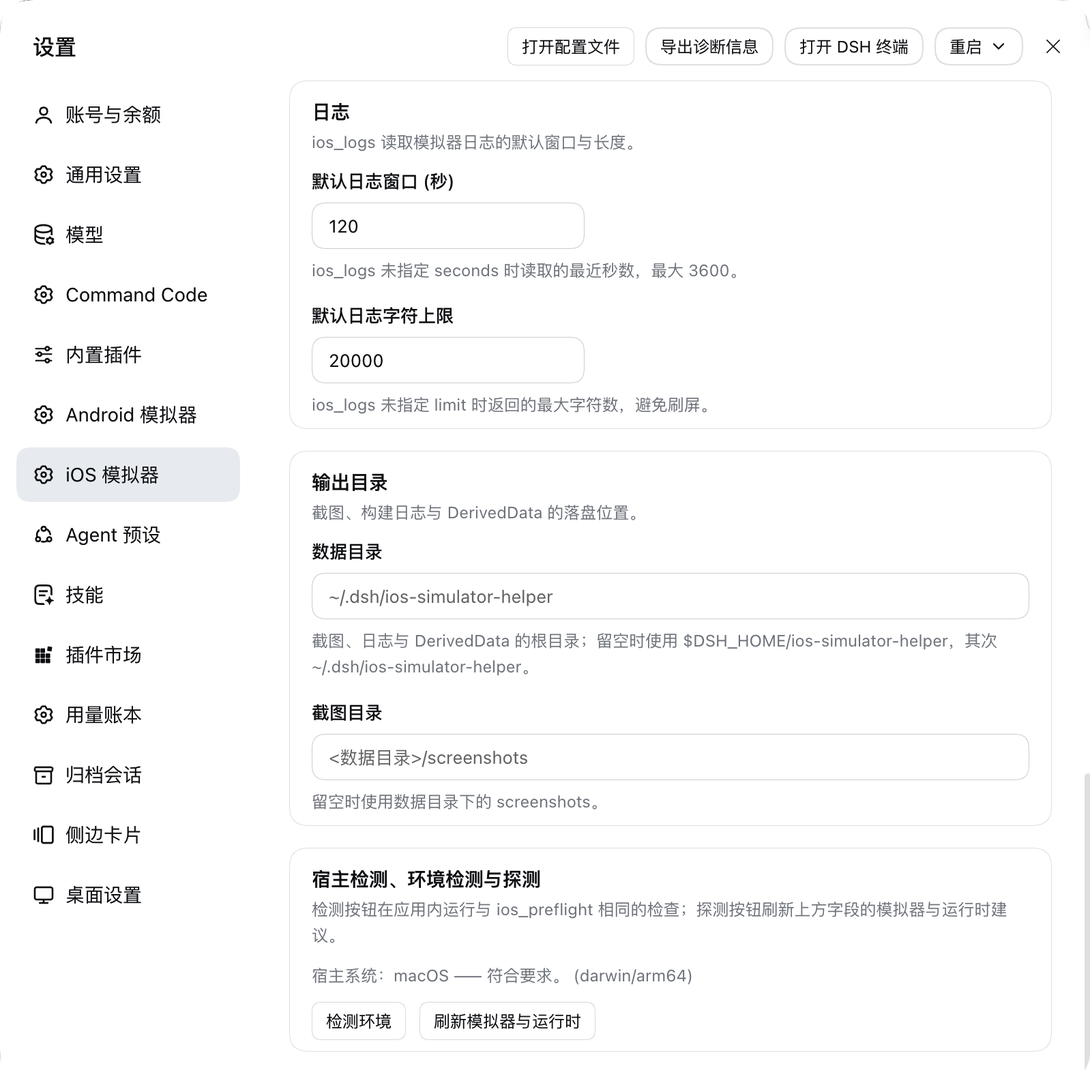
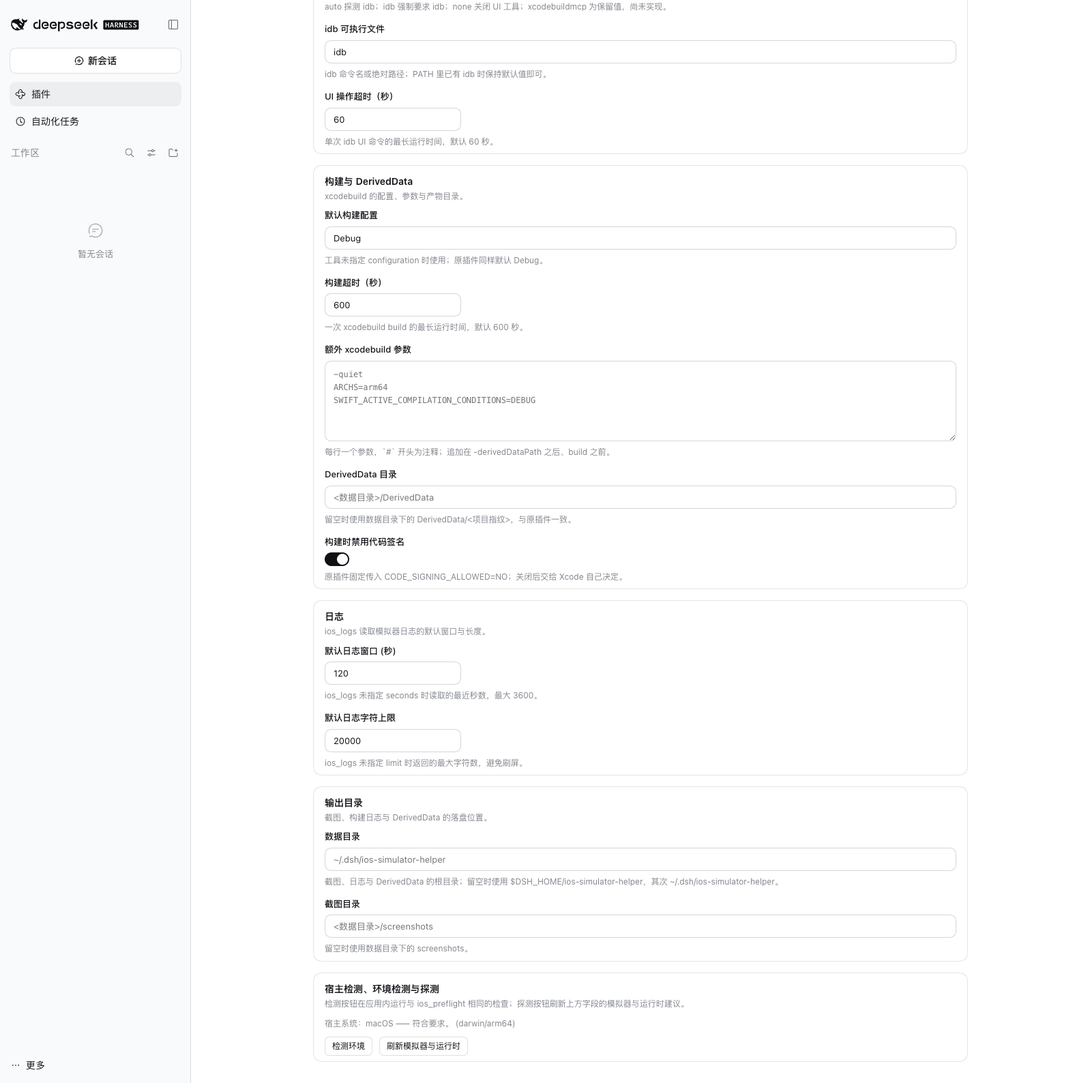
docs: move the configuration-page documents to the Plugins panel
Every instruction, screenshot and claim that still described the page as
Settings → iOS Simulator now names the plugin's detail view in the Plugins
panel: both READMEs and AGENTS.md, plus the four gallery images. The images
are re-captured from the real page in DSH harness 0.2.1-rc.2 (Chinese locale,
1598 × 1588, clean form so there is no staged save bar or override badge);
the last shot stops at the form's bottom instead of exposing the component
row's local code source, which has no place in a marketplace gallery.

AGENTS.md also records the new slot rule, the single source of the display
name in locale/*.json, the new gallery subject and the 108-test count.

Verified: `pnpm run check`.

diff --git a/README.md b/README.md
@@ -7,11 +7,11 @@
 ![platform: macOS](https://img.shields.io/badge/platform-macOS-lightgrey.svg)
 [![target: DSH](https://img.shields.io/badge/DSH-%3E%3D0.2.0--rc.2-blue.svg)](https://github.com/awesome-dsh-plugin/awesome-dsh-plugin)
 
-A DeepSeek Harness (DSH) native port of the official ZCode `ios-simulator@0.1.0` plugin: all 20 original MCP tools preserved as native DSH tools, plus a full **settings page** (Settings → iOS Simulator) that edits the simulator parameters in-app instead of through environment variables.
+A DeepSeek Harness (DSH) native port of the official ZCode `ios-simulator@0.1.0` plugin: all 20 original MCP tools preserved as native DSH tools, plus a **parameter page on the plugin's own detail page** in the Plugins panel (Plugins → Installed plugins → iOS Simulator Helper) that edits the simulator parameters in-app instead of through environment variables.
 
 - Tool and argument names are identical to the original, so workflows written for the `ios_simulator` MCP server keep working; one tool is added — `ios_shutdown_simulator`, because the original could boot a simulator but never stop one.
 - 17 settings fields in 5 groups, all live-editable; an empty field falls back to the original plugin's `IOS_SIM_*` variable, then to the built-in default.
-- The settings page detects the host system and, **on a non-macOS host, states that this plugin only supports macOS**; every tool that drives Apple tooling then refuses with a clear message instead of failing with `spawn xcrun ENOENT`, while `ios_preflight` reports the failing host check and `ios_discover_project`, `ios_create_app` and `ios_ui_status` still answer.
+- The parameter page detects the host system and, **on a non-macOS host, states that this plugin only supports macOS**; every tool that drives Apple tooling then refuses with a clear message instead of failing with `spawn xcrun ENOENT`, while `ios_preflight` reports the failing host check and `ios_discover_project`, `ios_create_app` and `ios_ui_status` still answer.
 - Published as `@zhz8888/dsh-ios-simulator-helper`; the plugin page shows **iOS Simulator Helper** / **iOS 模拟器助手** from `locale/` rather than the raw package name, and both descriptions say the plugin is unofficial and not affiliated with Apple.
 
 ## Quick start
@@ -26,16 +26,16 @@ On a Mac with full Xcode, at least one iOS runtime and DSH installed:
 
    In DSH Desktop, open **Plugins** and add the same package name there. Reload or restart DSH afterwards.
 
-2. **Check the machine** — open **Settings → iOS Simulator** and press **Run diagnostic**. It runs exactly the checks `ios_preflight` runs (full Xcode, a simulator runtime, `idb`), and prints a fix for anything missing.
+2. **Check the machine** — open **Plugins → Installed plugins → iOS Simulator Helper** and press **Run diagnostic**. It runs exactly the checks `ios_preflight` runs (full Xcode, a simulator runtime, `idb`), and prints a fix for anything missing.
 
-3. **Use it** — ask for what you want ("build and run this project on the iPhone 16 simulator", "screenshot the running app"), or call the 21 `ios_*` tools directly. Everything the tools need is editable on that settings page.
+3. **Use it** — ask for what you want ("build and run this project on the iPhone 16 simulator", "screenshot the running app"), or call the 21 `ios_*` tools directly. Everything the tools need is editable on that page.
 
 ## Contents
 
 - [Quick start](#quick-start)
 - [Requirements](#requirements)
 - [Install](#install)
-- [Settings page](#settings-page)
+- [Configuration page](#configuration-page)
 - [Screenshots](#screenshots)
 - [Tools](#tools)
 - [Skill and slash command](#skill-and-slash-command)
@@ -55,7 +55,7 @@ On a Mac with full Xcode, at least one iOS runtime and DSH installed:
 | Node.js ≥ 22 | The DSH host runtime. |
 | `idb` (optional) | Needed only by the `ios_ui_*` tools. Without it, build/run/screenshot/logs are unaffected. |
 
-`ios_preflight` checks every item above and prints a fix for each failure; the settings page's "Run diagnostic" button runs the same checks.
+`ios_preflight` checks every item above and prints a fix for each failure; the parameter page's "Run diagnostic" button runs the same checks.
 
 ## Install
 
@@ -63,7 +63,7 @@ On a Mac with full Xcode, at least one iOS runtime and DSH installed:
 dsh plugin --profile <profile> add @zhz8888/dsh-ios-simulator-helper
 ```
 
-**DSH Desktop**: the `desktop` profile belongs to the Electron app — open **Plugins**, add `@zhz8888/dsh-ios-simulator-helper` there, and enable the row it creates. After a reload or restart the page is at **Settings → iOS Simulator**; it only appears while the host half actually serves this plugin's settings namespace.
+**DSH Desktop**: the `desktop` profile belongs to the Electron app — open **Plugins**, add `@zhz8888/dsh-ios-simulator-helper` there, and enable the row it creates. After a reload or restart the form is at **Plugins → Installed plugins → iOS Simulator Helper**; it only appears while the host half actually serves this plugin's settings namespace.
 
 The published tarball contains everything the plugin needs — the host half, the browser bundle, the bundled skill and the `locale/` entries — and nothing is compiled at install time, so no build approval step is involved. `@deepseek-ai/cordis`, `@deepseek-ai/dsh-tools` and `@deepseek-ai/schemastery` are **peer dependencies** provided by the harness, so the plugin pulls in no second copy and has **no runtime dependencies** of its own; DSH's compatibility gate compares the `@deepseek-ai/dsh*` peer ranges against the running version and refuses to install on a mismatch.
 
@@ -91,11 +91,11 @@ dsh plugin --profile <profile> add @zhz8888/dsh-ios-simulator-helper \
 
 Stable releases (`0.2.0`, `0.2.1`, `0.3.0`, `1.0.0`, …) are unaffected and always admitted.
 
-## Settings page
+## Configuration page
 
-The settings namespace equals the profile patch row id equals `ios-simulator-helper` (also `dsh.name`). The page reads and writes through `ctx.configForms`, so staged edits, dirty detection, inline validation, optimistic concurrency (revisions) and "overridden / reset to default" all come from the harness. It is one card per category, built from the same field kit as the built-in settings pages (`@deepseek-ai/dsh-client-ui-primitives`); the three timeouts are entered in whole seconds, while the legacy `IOS_SIM_*_MS` variables are still read in milliseconds and converted.
+The settings namespace equals the profile patch row id equals `ios-simulator-helper` (also `dsh.name`). The form registers with the Plugins page's `plugins.bundle.config` slot, keyed by the package name, so it renders inside the plugin's detail page in the Plugins panel instead of in the Settings dialog; it exists only while the host half serves that namespace. It reads and writes through `ctx.configForms`, so staged edits, dirty detection, inline validation, optimistic concurrency (revisions) and "overridden / reset to default" all come from the harness. The detail page draws the plugin's title, icon and description; the form contributes one line saying when an edit takes effect, one card per category — built from the same field kit as the built-in settings pages (`@deepseek-ai/dsh-client-ui-primitives`) — and the save bar. The three timeouts are entered in whole seconds, while the legacy `IOS_SIM_*_MS` variables are still read in milliseconds and converted.
 
-Saving happens in a pill that sticks to the bottom of the page: it appears while edits are staged (or a write is in flight, or one failed), names that state next to a status dot, and carries **Discard changes** and **Save** (disabled while a draft is invalid). A draft that merely puts a control back to the value already in effect counts as no edit at all, a confirmation toast reports a write that landed, and leaving the page discards staged edits.
+Saving happens in a pill that sticks to the bottom of the form: it appears while edits are staged (or a write is in flight, or one failed), names that state next to a status dot, and carries **Discard changes** and **Save** (disabled while a draft is invalid). A draft that merely puts a control back to the value already in effect counts as no edit at all, a confirmation toast reports a write that landed, and leaving the page discards staged edits.
 
 | Group | Field | Type | Default | Legacy env fallback | Notes |
 |---|---|---|---|---|---|
@@ -117,7 +117,7 @@ Saving happens in a pill that sticks to the bottom of the page: it appears while
 | Output directories | `dataDir` | text | empty | `IOS_SIM_PLUGIN_DATA` | Root for screenshots, build logs and DerivedData; empty uses `$DSH_HOME/ios-simulator-helper`, then `~/.dsh/ios-simulator-helper`. |
 | | `screenshotDir` | text | empty | `IOS_SIM_SCREENSHOT_DIR` | Empty uses `<data dir>/screenshots`. |
 
-Below the form sit the host check and three buttons:
+Below the form sit the host check and two buttons:
 
 - **Host system** — decided twice: synchronously from the browser's own platform string (so a non-macOS browser sees the notice on first paint, before any request), then authoritatively from the host half's `GET /api/ios-simulator-helper/host`; the host wins on a conflict. When the host is unsupported — or the host never answered and the browser itself is non-macOS — a red notice titled **"This plugin only supports macOS"** appears above the form and names the detected platform.
 - **Run diagnostic** → `GET /api/ios-simulator-helper/status`, the same checks `ios_preflight` runs, listed one by one with status, detail and fix.
@@ -129,23 +129,23 @@ The original plugin's `userConfig` (`default_device`, `ui_backend`) and its envi
 
 ## Screenshots
 
-All four are the live page in DSH Desktop, in the order you scroll it — nothing is mocked up. They show the 1.1.0 card layout and the timeouts in whole seconds; the save bar only appears while an edit is staged, so it is not in these shots. The window ran the Chinese locale, so the section headings are Chinese while every field name is the same in both languages.
+All four are the live page in DSH harness 0.2.1-rc.2, in the order you scroll it — nothing is mocked up. They show the form inside the plugin's own detail view in the Plugins panel, the 1.1.0 card layout and the timeouts in whole seconds; the save bar only appears while an edit is staged, so it is not in these shots. The window ran the Chinese locale, so the card headings are Chinese while every field name is the same in both languages.
 
-**1. Simulator and device** — the fields every `ios_*` call reads:
+**1. Simulator and device** — the plugin heading and description, then the fields every `ios_*` call reads:
 
-![The iOS Simulator settings page in DSH Desktop: the simulator-and-device card with the default device, default runtime, auto boot, auto open and the boot timeout](https://raw.githubusercontent.com/zhz8888/dsh-ios-simulator-helper/main/assets/settings-page-1-simulator-and-device.png)
+![The iOS Simulator Helper page in the Plugins panel: the plugin title, version and description, then the simulator-and-device card with the default device, default runtime, auto boot, auto open and the boot timeout](https://raw.githubusercontent.com/zhz8888/dsh-ios-simulator-helper/main/assets/settings-page-1-simulator-and-device.png)
 
 **2. UI automation and builds** — the `idb` backend and its timeout, then the `xcodebuild` configuration, build timeout and extra arguments:
 
-![The page scrolled to UI automation and build settings: UI backend, idb binary, UI timeout, default configuration, build timeout and the extra xcodebuild arguments](https://raw.githubusercontent.com/zhz8888/dsh-ios-simulator-helper/main/assets/settings-page-2-ui-automation-and-build.png)
+![The form scrolled to UI automation and build settings: UI backend, idb binary, UI timeout, default configuration, build timeout and the extra xcodebuild arguments](https://raw.githubusercontent.com/zhz8888/dsh-ios-simulator-helper/main/assets/settings-page-2-ui-automation-and-build.png)
 
 **3. Build tail and logs** — the DerivedData directory and the code-signing switch, then the `ios_logs` window and character limit, and the start of the output directories:
 
-![The page scrolled further: the DerivedData directory and code signing during builds, then the default log window and character limit, and the data and screenshot directories](https://raw.githubusercontent.com/zhz8888/dsh-ios-simulator-helper/main/assets/settings-page-3-logs-and-output.png)
+![The form scrolled further: the DerivedData directory and code signing during builds, then the default log window and character limit, and the start of the data and screenshot directories](https://raw.githubusercontent.com/zhz8888/dsh-ios-simulator-helper/main/assets/settings-page-3-logs-and-output.png)
 
 **4. Output directories and the host check** — where screenshots, logs and DerivedData land, then the macOS verdict with the two detection buttons:
 
-![The bottom of the page: the data and screenshot directories, then the host check reading "macOS — supported (darwin/arm64)" with the run-diagnostic and refresh buttons](https://raw.githubusercontent.com/zhz8888/dsh-ios-simulator-helper/main/assets/settings-page-4-host-check.png)
+![The bottom of the form: the data and screenshot directories, then the host check reading "macOS — supported (darwin/arm64)" with the run-diagnostic and refresh buttons](https://raw.githubusercontent.com/zhz8888/dsh-ios-simulator-helper/main/assets/settings-page-4-host-check.png)
 
 `screenshots.json` lists these four files in this order next to `package.json` in the repository, which is how a plugin market finds them.
 
@@ -180,7 +180,7 @@ Two behaviours deserve their own note:
 
 ## Skill and slash command
 
-- **`ios-dev` skill** — shipped in `skills/ios-dev/` and registered by the host half through `ctx.skills.register()` as an embedded skill with the skill directory as its `resourceBase`. Rewritten for DSH: no `mcp__…` prefix, environment configuration points at the settings page, and the macOS precondition plus the "shut the simulator down when you are done" step are spelled out.
+- **`ios-dev` skill** — shipped in `skills/ios-dev/` and registered by the host half through `ctx.skills.register()` as an embedded skill with the skill directory as its `resourceBase`. Rewritten for DSH: no `mcp__…` prefix, environment configuration points at the plugin's configuration page, and the macOS precondition plus the "shut the simulator down when you are done" step are spelled out.
 - **`/ios-dev [goal]` command** — registered through `ctx.commands.register()`. DSH user commands deliberately never create a model message, so this command does the one thing that is useful without the model: it runs the environment diagnostic and prints the verdict, the failing checks and their fixes.
 
 ## Differences from the original
@@ -188,10 +188,10 @@ Two behaviours deserve their own note:
 | Aspect | Original (ZCode) | This plugin (DSH) |
 |---|---|---|
 | Tool exposure | stdio MCP server `ios-simulator`; the model sees `mcp__ios_simulator__*` | Native `ctx.tools.register()`; the model sees `ios_*` |
-| User configuration | `plugin.json` `userConfig` (2 items), injected as environment variables | Settings page with 17 fields on a schemastery `Config`, all `.volatile()`; the old environment variables remain as fallbacks |
-| Host check | `process.platform` read once, inside `ios_preflight` | Centralised `requireMacOS()` in front of every Apple-tooling call, plus the settings page's synchronous and authoritative verdicts |
+| User configuration | `plugin.json` `userConfig` (2 items), injected as environment variables | Configuration page with 17 fields on a schemastery `Config`, all `.volatile()`; the old environment variables remain as fallbacks |
+| Host check | `process.platform` read once, inside `ios_preflight` | Centralised `requireMacOS()` in front of every Apple-tooling call, plus the configuration page's synchronous and authoritative verdicts |
 | Working directory | `process.cwd()` | `exec.agent.session.header.cwd` (the session workspace) |
-| Data directory | `IOS_SIM_PLUGIN_DATA` / temp | `$DSH_HOME/ios-simulator-helper`, configurable on the settings page |
+| Data directory | `IOS_SIM_PLUGIN_DATA` / temp | `$DSH_HOME/ios-simulator-helper`, configurable on the configuration page |
 | Path safety | `inside(cwd, path)` refuses escapes | Same semantics, split into read-only paths (an absolute `.app` is fine) and write targets (must stay inside the session workspace) |
 | Screenshot result | MCP image content (base64) | An image block built from a host attachment reference, degraded to text plus a disk path on refusal |
 | Result normalisation | Providers return objects containing `undefined` | Every tool result passes through `toLosslessJson()` (the registry rejects `undefined`) |
@@ -200,13 +200,13 @@ Two behaviours deserve their own note:
 
 ## Known limitations
 
-- **macOS only.** On any other host `ios_preflight` fails the `Host OS (macOS)` check and skips the remaining probes instead of producing meaningless spawn failures; every tool that drives Apple tooling refuses, `ios_discover_project`, `ios_create_app` and `ios_ui_status` still answer, and the settings page keeps the notice at the top.
+- **macOS only.** On any other host `ios_preflight` fails the `Host OS (macOS)` check and skips the remaining probes instead of producing meaningless spawn failures; every tool that drives Apple tooling refuses, `ios_discover_project`, `ios_create_app` and `ios_ui_status` still answer, and the configuration page keeps the notice at the top.
 - `ios_ui_*` needs `idb`; `ios_ui_status` explains what is missing. `xcodebuildmcp` is only a reserved value (matching the original's `reservedBackends`) and is not implemented.
 - The original's `ios_build_and_run` always opened the Simulator window; here that is the `autoOpenSimulator` setting (on by default, so behaviour matches). `ios_build_app` and `ios_screenshot` still do not open windows, as in the original. The window app is Simulator.app on Xcode 25 and earlier and Device Hub on Xcode 26 and later; a window that cannot be opened is reported in the result (`opened: false` plus `openWarning`) and never fails the `simctl` steps.
 - `ios_logs` reads `log show` (no live stream), with a configurable and clamped window and length.
 - Swift macros (`@State`, `#Preview`) need `swift-plugin-server`, which cannot start its nested `sandbox-exec` when the caller is itself sandboxed. `ios_build_app` then retries the build once with `OTHER_SWIFT_FLAGS=-disable-sandbox` and reports `macroSandboxRetry: true`; a caller that was never sandboxed never sees a retry.
 - The generated project template is byte-for-byte the original's (an Xcode 14-compatible `project.pbxproj`, `objectVersion = 56`) and does not track newer Xcode templates.
-- **The settings page has only been checked by eye in DSH Desktop**: the plugin is installed into the `desktop` profile, and the four shots in `assets/` are the latest manual pass, top to bottom. Dark theme, narrow-width wrapping and the non-macOS notice are still covered by the render tests, not by eye.
+- **The configuration page has only been checked by eye in DSH Desktop**: the plugin is installed into the `desktop` profile, and the four shots in `assets/` are the latest manual pass, top to bottom. Dark theme, narrow-width wrapping and the non-macOS notice are still covered by the render tests, not by eye.
 - No credential handling: the plugin never reads or forwards key/token/secret environment variables.
 
 ## Releases

diff --git a/README.zh-CN.md b/README.zh-CN.md
@@ -7,11 +7,11 @@
 ![platform: macOS](https://img.shields.io/badge/platform-macOS-lightgrey.svg)
 [![target: DSH](https://img.shields.io/badge/DSH-%3E%3D0.2.0--rc.2-blue.svg)](https://github.com/awesome-dsh-plugin/awesome-dsh-plugin)
 
-把 ZCode 官方 `ios-simulator@0.1.0` 插件移植为 **DSH（DeepSeek Harness）原生插件**：原有 20 个 MCP 工具全部保留为 DSH 原生工具，并新增一个完整的 **设置页面**（设置 → iOS 模拟器），让默认设备、运行时、UI 后端、构建参数与输出目录都能在应用里配置，而不是靠环境变量。
+把 ZCode 官方 `ios-simulator@0.1.0` 插件移植为 **DSH（DeepSeek Harness）原生插件**：原有 20 个 MCP 工具全部保留为 DSH 原生工具，并新增一个**参数表单**，渲染在「插件」页该插件的详情页里（插件 → 已安装插件 → iOS 模拟器助手），让默认设备、运行时、UI 后端、构建参数与输出目录在应用里配置，而不是靠环境变量。
 
 - 工具名、参数名与原插件完全一致，为原 MCP 服务器写的工作流可直接迁移；另新增 1 个 `ios_shutdown_simulator`（原插件能启动模拟器却无法停止它）。
-- 设置页 5 组 17 个字段，全部实时生效；空值按「设置页 → 原插件环境变量 → 内置默认值」顺序回落。
-- 设置页会检测宿主系统：**非 macOS 时直接提示该插件仅支持 macOS**；所有需要调用 Apple 工具链的工具都会以明确的报错拒绝执行，而不是抛出 `spawn xcrun ENOENT`；`ios_preflight` 则报告宿主检查失败，`ios_discover_project`、`ios_create_app` 与 `ios_ui_status` 仍可正常返回。
+- 参数页 5 组 17 个字段，全部实时生效；空值按「参数页 → 原插件环境变量 → 内置默认值」顺序回落。
+- 参数页会检测宿主系统：**非 macOS 时直接提示该插件仅支持 macOS**；所有需要调用 Apple 工具链的工具都会以明确的报错拒绝执行，而不是抛出 `spawn xcrun ENOENT`；`ios_preflight` 则报告宿主检查失败，`ios_discover_project`、`ios_create_app` 与 `ios_ui_status` 仍可正常返回。
 - npm 包名为 `@zhz8888/dsh-ios-simulator-helper`；插件页显示的名称由 `locale/` 提供——英文 **iOS Simulator Helper**、中文 **iOS 模拟器助手**——而不是裸包名，两份描述都注明插件为非官方、与 Apple 无隶属关系。
 
 ## 快速上手
@@ -26,16 +26,16 @@
 
    DSH Desktop 则在左侧「插件」页里添加同一个包名。装完重载或重启 DSH。
 
-2. **检查环境** —— 打开 **设置 → iOS 模拟器**，点「检测环境」。它跑的正是 `ios_preflight` 的那套检查（完整 Xcode、模拟器运行时、`idb`），缺什么就给修复建议。
+2. **检查环境** —— 打开 **插件 → 已安装插件 → iOS 模拟器助手**，点「检测环境」。它跑的正是 `ios_preflight` 的那套检查（完整 Xcode、模拟器运行时、`idb`），缺什么就给修复建议。
 
-3. **开始使用** —— 直接说需求（「把这个工程在 iPhone 16 模拟器上构建并跑起来」「给正在运行的 App 截个图」），或直接调用 21 个 `ios_*` 工具。工具需要的参数都能在那个设置页里改。
+3. **开始使用** —— 直接说需求（「把这个工程在 iPhone 16 模拟器上构建并跑起来」「给正在运行的 App 截个图」），或直接调用 21 个 `ios_*` 工具。工具需要的参数都能在那个页面里改。
 
 ## 目录
 
 - [快速上手](#快速上手)
 - [环境要求](#环境要求)
 - [安装](#安装)
-- [设置页面](#设置页面)
+- [配置页面](#配置页面)
 - [截图](#截图)
 - [工具清单](#工具清单)
 - [Skill 与斜杠命令](#skill-与斜杠命令)
@@ -55,7 +55,7 @@
 | Node.js ≥ 22 | DSH 宿主运行时 |
 | idb（可选） | 仅 `ios_ui_*` 工具需要；未安装时构建/运行/截图/日志链路完全不受影响 |
 
-`ios_preflight` 会逐项检查上述条件并给出修复建议；设置页的「检测环境」按钮运行同一套检查。
+`ios_preflight` 会逐项检查上述条件并给出修复建议；参数页的「检测环境」按钮运行同一套检查。
 
 ## 安装
 
@@ -63,7 +63,7 @@
 dsh plugin --profile <profile> add @zhz8888/dsh-ios-simulator-helper
 ```
 
-**DSH Desktop**：`desktop` profile 由 Electron 应用自身管理，在左侧「插件」页里添加 `@zhz8888/dsh-ios-simulator-helper`，再把生成的条目打开即可。重载/重启后页面在 **设置 → iOS 模拟器**；只有 host 半侧真正提供了该设置命名空间时，页面才会出现。
+**DSH Desktop**：`desktop` profile 由 Electron 应用自身管理，在左侧「插件」页里添加 `@zhz8888/dsh-ios-simulator-helper`，再把生成的条目打开即可。重载/重启后表单在 **插件 → 已安装插件 → iOS 模拟器助手**；只有 host 半侧真正提供了该设置命名空间时，表单才会出现。
 
 发布出去的 tarball 里已经包含插件运行所需的一切——host 半侧、浏览器 bundle、随包 skill 与 `locale/` 条目——安装期不编译任何东西，因此不涉及构建授权步骤。`@deepseek-ai/cordis`、`@deepseek-ai/dsh-tools` 与 `@deepseek-ai/schemastery` 是 **peer 依赖**，由 DSH 宿主提供：插件不会装第二份，本包自身也**没有任何运行时依赖**。DSH 的兼容性闸门按 `peerDependencies` 里 `@deepseek-ai/dsh*` 的版本区间与运行时版本比对，不匹配会明确拒装。
 
@@ -91,11 +91,11 @@ dsh plugin --profile <profile> add @zhz8888/dsh-ios-simulator-helper \
 
 稳定版（`0.2.0`、`0.2.1`、`0.3.0`、`1.0.0`…）不受这个细节影响，一律放行。
 
-## 设置页面
+## 配置页面
 
-设置命名空间 = profile patch 行 id = `ios-simulator-helper`（同时是 `dsh.name`）。页面通过 `ctx.configForms` 读写，因此具备暂存编辑、脏值检测、内联校验、乐观并发（revision）与「已覆盖/恢复默认」语义。每个分类是一张独立卡片，度量取自内置设置页所用的同一套表单套件（`@deepseek-ai/dsh-client-ui-primitives`）；三个超时均以整秒填写，而旧的 `IOS_SIM_*_MS` 环境变量仍按毫秒读取并自动换算。
+配置命名空间 = profile patch 行 id = `ios-simulator-helper`（同时是 `dsh.name`）。表单注册到插件页的 `plugins.bundle.config` 槽、以包名为键，因此渲染在「插件」页该插件的详情页里，而不是「设置」对话框里；只有当 host 半侧提供该命名空间时它才存在。表单通过 `ctx.configForms` 读写，因此暂存编辑、脏值检测、内联校验、乐观并发（revision）与「已覆盖 / 恢复默认」语义都由 harness 提供。详情页负责绘制插件标题、图标与描述；表单本身只贡献一行「改动何时生效」的说明、每个分组一张卡片——卡片描边就是分组之间的分隔，度量取自内置设置页所用的同一套表单套件（`@deepseek-ai/dsh-client-ui-primitives`）——以及底部粘性保存栏。三个超时均以整秒填写，而旧的 `IOS_SIM_*_MS` 环境变量仍按毫秒读取并自动换算。
 
-保存由一条吸附在页面底部的小药丸条负责：有暂存改动、写入进行中或写入失败时出现，状态点旁写明当前状态，并提供 **放弃改动** 与 **保存**（草稿不合法时保存按钮禁用）。只是把控件改回当前生效值的草稿不算改动；写入成功由一条提示条确认，离开页面会放弃未保存的编辑。
+保存由一条吸附在表单底部的小药丸条负责：有暂存改动、写入进行中或写入失败时出现，状态点旁写明当前状态，并提供 **放弃改动** 与 **保存**（草稿不合法时保存按钮禁用）。只是把控件改回当前生效值的草稿不算改动；写入成功由一条提示条确认，离开页面会放弃未保存的编辑。
 
 | 分组 | 设置项 | 类型 | 默认值 | 原插件环境变量回落 | 说明 |
 |---|---|---|---|---|---|
@@ -117,7 +117,7 @@ dsh plugin --profile <profile> add @zhz8888/dsh-ios-simulator-helper \
 | 输出目录 | `dataDir` | 文本 | 空 | `IOS_SIM_PLUGIN_DATA` | 截图、构建日志与 DerivedData 的根目录；留空用 `$DSH_HOME/ios-simulator-helper`，其次 `~/.dsh/ios-simulator-helper` |
 | | `screenshotDir` | 文本 | 空 | `IOS_SIM_SCREENSHOT_DIR` | 留空用 `<数据目录>/screenshots` |
 
-页面底部是宿主检测与三个按钮/结果区：
+表单底部是宿主检测与两个按钮/结果区：
 
 - **宿主系统**：页面先用浏览器自身的平台串**同步**判断（因此非 macOS 的浏览器在首屏就能看到提示，不必等请求），再用 host 半侧 `GET /api/ios-simulator-helper/host` 的结论确认；两者冲突时以 host 为准。判定为不支持时——或 host 没有返回、而浏览器自身就是非 macOS 时——页面顶部出现红色提示条：**该插件仅支持 macOS**，并给出检测到的平台名。
 - **检测环境** → `GET /api/ios-simulator-helper/status`，返回与 `ios_preflight` 相同的检查项，逐条显示状态、详情与修复建议。
@@ -129,23 +129,23 @@ dsh plugin --profile <profile> add @zhz8888/dsh-ios-simulator-helper \
 
 ## 截图
 
-四张都是 DSH Desktop 里这份代码跑起来的真实页面，按从上到下的滚动顺序排列，没有做图。展示的是 1.1.0 的卡片式布局与按整秒填写的超时；保存操作条只在有暂存改动时出现，因此这几张里看不到它。截图时窗口用的是中文界面，分区标题为中文，字段名两种语言一致。
+四张都是 DSH harness 0.2.1-rc.2 里这份代码跑起来的真实页面，按从上到下的滚动顺序排列，没有做图。展示的是「插件」页该插件详情页里的参数表单、1.1.0 的卡片式布局与按整秒填写的超时；保存操作条只在有暂存改动时出现，因此这几张里看不到它。截图时窗口用的是中文界面，卡片标题为中文，字段名两种语言一致。
 
-**1. 模拟器与设备** —— 每次 `ios_*` 调用都会读取的字段：
+**1. 模拟器与设备** —— 插件标题与描述，以及每次 `ios_*` 调用都会读取的字段：
 
-![DSH Desktop 里的 iOS 模拟器设置页：模拟器与设备卡片，含默认设备、默认运行时、自动启动、自动打开窗口与启动超时](https://raw.githubusercontent.com/zhz8888/dsh-ios-simulator-helper/main/assets/settings-page-1-simulator-and-device.png)
+![「插件」页里的 iOS 模拟器助手：插件标题、版本与描述，接着是模拟器与设备卡片，含默认设备、默认运行时、自动启动、自动打开窗口与启动超时](https://raw.githubusercontent.com/zhz8888/dsh-ios-simulator-helper/main/assets/settings-page-1-simulator-and-device.png)
 
 **2. UI 自动化与构建** —— `idb` 后端与其超时，接着是 `xcodebuild` 的配置、构建超时与额外参数：
 
-![滚动到 UI 自动化与构建分组：UI 后端、idb 可执行文件、UI 操作超时、默认构建配置、构建超时与额外 xcodebuild 参数](https://raw.githubusercontent.com/zhz8888/dsh-ios-simulator-helper/main/assets/settings-page-2-ui-automation-and-build.png)
+![表单滚动到 UI 自动化与构建分组：UI 后端、idb 可执行文件、UI 操作超时、默认构建配置、构建超时与额外 xcodebuild 参数](https://raw.githubusercontent.com/zhz8888/dsh-ios-simulator-helper/main/assets/settings-page-2-ui-automation-and-build.png)
 
 **3. 构建尾部与日志** —— DerivedData 目录与代码签名开关，接着是 `ios_logs` 的窗口与字符上限，以及输出目录的开头：
 
-![继续向下滚动：DerivedData 目录、构建时禁用代码签名，接着是默认日志窗口与默认日志字符上限，以及数据目录与截图目录](https://raw.githubusercontent.com/zhz8888/dsh-ios-simulator-helper/main/assets/settings-page-3-logs-and-output.png)
+![表单继续向下滚动：DerivedData 目录、构建时禁用代码签名，接着是默认日志窗口与默认日志字符上限，以及数据目录与截图目录的开头](https://raw.githubusercontent.com/zhz8888/dsh-ios-simulator-helper/main/assets/settings-page-3-logs-and-output.png)
 
 **4. 输出目录与宿主检测** —— 截图/日志/DerivedData 的落盘位置，然后是 macOS 判定与两个检测按钮：
 
-![页面底部：数据目录与截图目录，以及宿主系统判定为「macOS —— 符合要求（darwin/arm64）」与检测环境、刷新模拟器两个按钮](https://raw.githubusercontent.com/zhz8888/dsh-ios-simulator-helper/main/assets/settings-page-4-host-check.png)
+![表单底部：数据目录与截图目录，以及宿主系统判定为「macOS —— 符合要求（darwin/arm64）」与检测环境、刷新模拟器两个按钮](https://raw.githubusercontent.com/zhz8888/dsh-ios-simulator-helper/main/assets/settings-page-4-host-check.png)
 
 `screenshots.json` 就在仓库里的 `package.json` 旁边按这个顺序列出四张图，插件市场据此展示。
 
@@ -180,7 +180,7 @@ dsh plugin --profile <profile> add @zhz8888/dsh-ios-simulator-helper \
 
 ## Skill 与斜杠命令
 
-- **`ios-dev` skill**：随包提供（`skills/ios-dev/`），host 半侧通过 `ctx.skills.register()` 注册为嵌入式 skill，skill 目录作为 `resourceBase`。内容已按 DSH 改写：去掉 `mcp__...` 前缀、把环境配置指向设置页、写明 macOS 前置条件与「用完关闭模拟器」的收尾动作。
+- **`ios-dev` skill**：随包提供（`skills/ios-dev/`），host 半侧通过 `ctx.skills.register()` 注册为嵌入式 skill，skill 目录作为 `resourceBase`。内容已按 DSH 改写：去掉 `mcp__...` 前缀、把环境配置指向插件的配置页面、写明 macOS 前置条件与「用完关闭模拟器」的收尾动作。
 - **`/ios-dev [目标]` 命令**：通过 `ctx.commands.register()` 注册。DSH 的用户命令刻意不产生模型消息，因此该命令做一件不依赖模型的事——跑一遍环境诊断，输出结论、失败项与修复建议。
 
 ## 与原插件的差异
@@ -188,10 +188,10 @@ dsh plugin --profile <profile> add @zhz8888/dsh-ios-simulator-helper \
 | 方面 | 原插件（ZCode） | 本插件（DSH） |
 |---|---|---|
 | 工具暴露 | stdio MCP 服务器 `ios-simulator`，模型看到 `mcp__ios_simulator__*` | 原生 `ctx.tools.register()`，模型看到 `ios_*` |
-| 用户配置 | `plugin.json` 的 `userConfig`（2 项），经环境变量注入 | 设置页 17 字段 + schemastery `Config`，全部 `.volatile()` 实时生效；原环境变量仍作回落 |
-| 宿主检查 | 仅 `ios_preflight` 里检查一次 `process.platform` | 中央化的 `requireMacOS()`：每个需要 Apple 工具链的入口都会先拒绝；设置页同步 + 权威双重判定 |
+| 用户配置 | `plugin.json` 的 `userConfig`（2 项），经环境变量注入 | 配置页面 17 字段 + schemastery `Config`，全部 `.volatile()` 实时生效；原环境变量仍作回落 |
+| 宿主检查 | 仅 `ios_preflight` 里检查一次 `process.platform` | 中央化的 `requireMacOS()`：每个需要 Apple 工具链的入口都会先拒绝；配置页面同步 + 权威双重判定 |
 | 工作目录 | `process.cwd()` | `exec.agent.session.header.cwd`（会话工作区） |
-| 数据目录 | `IOS_SIM_PLUGIN_DATA` / 临时目录 | `$DSH_HOME/ios-simulator-helper`，可在设置页配置 |
+| 数据目录 | `IOS_SIM_PLUGIN_DATA` / 临时目录 | `$DSH_HOME/ios-simulator-helper`，可在配置页面配置 |
 | 路径安全 | `inside(cwd, path)` 拒绝逃逸 | 同一语义；另区分「只读路径」（`ios_install_app` 允许绝对路径）与「写入目标」（必须在会话工作区内） |
 | 截图返回 | MCP image content（base64） | host 附件引用生成的图像块，失败时退化为文本 + 磁盘路径 |
 | 结果归一 | providers 直接返回含 `undefined` 的对象 | 所有工具结果经 `toLosslessJson()` 归一（注册表拒绝 `undefined`） |
@@ -200,13 +200,13 @@ dsh plugin --profile <profile> add @zhz8888/dsh-ios-simulator-helper \
 
 ## 已知限制
 
-- **仅支持 macOS**：非 macOS 上 `ios_preflight` 会把 `Host OS (macOS)` 标为失败并跳过其余探测（不做无意义的 spawn）；所有需要 Apple 工具链的工具都会拒绝执行，`ios_discover_project`、`ios_create_app` 与 `ios_ui_status` 仍可正常返回，设置页顶部常驻提示。
+- **仅支持 macOS**：非 macOS 上 `ios_preflight` 会把 `Host OS (macOS)` 标为失败并跳过其余探测（不做无意义的 spawn）；所有需要 Apple 工具链的工具都会拒绝执行，`ios_discover_project`、`ios_create_app` 与 `ios_ui_status` 仍可正常返回，配置页面顶部常驻提示。
 - `idb` 未安装时 `ios_ui_*` 不可用，`ios_ui_status` 会说明原因；`xcodebuildmcp` 只是保留值（与原插件的 `reservedBackends` 一致），尚未实现。
 - 原插件的 `ios_build_and_run` 会无条件打开 Simulator 窗口；本插件把它交给 `autoOpenSimulator` 设置（默认开，行为与原插件一致），`ios_build_app` / `ios_screenshot` 仍按原语义不主动开窗。窗口应用在 Xcode 25 及更早是 Simulator.app，在 Xcode 26 及以后是 Device Hub；窗口打不开时只在结果里报告（`opened: false` 与 `openWarning`），不会让 `simctl` 步骤失败。
 - `ios_logs` 与原插件一样只做 `log show`（不做实时流），窗口与长度可配置且有上限。
 - Swift 宏（`@State`、`#Preview` 等）需要 `swift-plugin-server` 启动 `sandbox-exec`；调用方本身已在沙箱内时这一步会失败，`ios_build_app` 会自动补上 `OTHER_SWIFT_FLAGS=-disable-sandbox` 重试一次，并在结果里标记 `macroSandboxRetry: true`。从未处于沙箱内的调用方不会触发重试。
 - 生成工程模板与原插件逐字保留（`project.pbxproj` 为 Xcode 14 兼容格式、`objectVersion = 56`），未跟随新版 Xcode 的模板变化。
-- **设置页只在 DSH Desktop 里做过人工目视确认**：插件装在 `desktop` profile，`assets/` 里那四张按顺序就是最近一次手动检查的界面。暗色主题、窄屏换行与非 macOS 提示条仍只有渲染测试覆盖，没有目视。
+- **配置页面只在 DSH Desktop 里做过人工目视确认**：插件装在 `desktop` profile，`assets/` 里那四张按顺序就是最近一次手动检查的界面。暗色主题、窄屏换行与非 macOS 提示条仍只有渲染测试覆盖，没有目视。
 - 插件不触碰凭据：不读取、不转发任何含 key/token/secret 的环境变量。
 
 ## 版本与发布

diff --git a/AGENTS.md b/AGENTS.md
@@ -9,10 +9,10 @@ Working notes for coding agents in this repository. Everything below is specific
 | Piece | Detail |
 |---|---|
 | Tools | 21 native `ios_*` tools: project discovery/scaffolding, simulator boot/install/launch/terminate, screenshots, logs, optional `idb` UI automation. 20 keep the original names and arguments; `ios_shutdown_simulator` is added. |
-| Settings page | Settings → iOS Simulator: 17 fields in 5 groups, editable live through `ctx.configForms`. |
+| Configuration page | Rendered on the plugin's own detail view in the Plugins panel (`plugins.bundle.config`, keyed by the package name): 17 fields in 5 groups, editable live through `ctx.configForms`. The Settings dialog carries no section for this plugin. |
 | Skill / command | Bundled `ios-dev` skill (`skills/ios-dev/SKILL.md`) and a `/ios-dev [goal]` command that runs the environment diagnostic. |
 | Host | macOS only, with full Xcode. Every Apple-tooling call refuses elsewhere; `ios_preflight` reports the failed host check instead, and the pure-filesystem tools (`ios_discover_project`, `ios_create_app`) plus `ios_ui_status` still answer. |
-| Package | Two halves: `lib/index.js` (host, Cordis) and `lib/client.js` (browser bundle for the settings page). |
+| Package | Two halves: `lib/index.js` (host, Cordis) and `lib/client.js` (browser bundle for the configuration page). |
 
 The plugin page shows **iOS Simulator Helper** / **iOS 模拟器助手** from `locale/`, not the package name — the title names this plugin, not the Apple product it drives, and the descriptions carry the non-affiliation line. The settings namespace, the `cordis.patch.yml` row id and the route prefix are all `ios-simulator-helper`.
 
@@ -20,7 +20,7 @@ The plugin page shows **iOS Simulator Helper** / **iOS 模拟器助手** from `l
 
 ```bash
 pnpm install                 # test dependencies only (react, react-dom)
-pnpm test                    # 105 tests, no Xcode and no simulator needed
+pnpm test                    # 108 tests, no Xcode and no simulator needed
 node --test test/host.test.js  # one suite while iterating
 pnpm run check               # THE GATE: tests + bundle consistency + real-host mount
 pnpm run verify:mount        # real Cordis Context + real ToolRuntime; hermetic unless --with-simulator
@@ -44,7 +44,7 @@ cordis.patch.yml      the one `insert` row that mounts the host half
 ios-simulator.png     plugin icon: the ZCode plugin's artwork at 192 px, its grey backdrop keyed out (test decodes it)
 locale/en.json        plugin-page title/description; its presence is what enables the other languages
 locale/zh.json        the Simplified Chinese pair
-README.md             the user document (English, primary): install, settings, tools, limitations
+README.md             the user document (English, primary): install, configuration, tools, limitations
 README.zh-CN.md       its structural Simplified Chinese mirror
 lib/index.js          host half: tools, skill, command, the three Fetch routes, settings policy
 lib/client.js         browser half: a hand-written __ModuleLoader__ bundle — there is no build step
@@ -65,7 +65,7 @@ screenshots.json      the market-facing list of those four images (relative path
 These are load-bearing. Some fail at the loader, some fail silently in a UI.
 
 1. **The package name is the client module id.** `package.json` `name` = `id:` in `lib/client.js` = the `name:` of the row in `cordis.patch.yml`. `scripts/check-bundle.mjs` compares the first two.
-2. **One settings namespace.** The patch row id = `SETTINGS_NAMESPACE` in `lib/settings.js` = the literal in `lib/client.js` = the `/api/ios-simulator-helper` route prefix. Changing it means changing all four, and existing profiles keep their saved values keyed by the old id.
+2. **One settings namespace, one plugin-surface key.** The patch row id = `SETTINGS_NAMESPACE` in `lib/settings.js` = the literal in `lib/client.js` = the `/api/ios-simulator-helper` route prefix. Changing it means changing all four, and existing profiles keep their saved values keyed by the old id. The form does **not** register under this namespace: it registers into the Plugins page's `plugins.bundle.config` slot, keyed by the **package name** (the value the plugin manager's inventory compares against), and `scripts/check-bundle.mjs` compares that key and `PACKAGE_NAME` with `package.json`.
 3. **The browser half is a classic script, not a module.** It may only `require` the shell's nine static modules — `react`, `react/jsx-runtime`, `react-dom`, `react-dom/client`, `@deepseek-ai/cordis`, `@deepseek-ai/dsh-client-store`, `@deepseek-ai/dsh-client-ui-slots`, `@deepseek-ai/dsh-client-ui-primitives`, `@deepseek-ai/dsh-client-ui-dockkit` (the table in `test/helpers/load-bundle.mjs`) — and must never import a host module. Editing `lib/client.js` edits what ships — nothing compiles it.
 4. **Two field tables must agree.** `lib/settings.js` (host) and the mirrored metadata in `lib/client.js` are compared key by key and option by option by the consistency gate. Change one, change both.
 5. **Platform logic lives in one place**: `lib/providers/host.js`. The platform is an injectable parameter so the non-macOS branch is testable on a Mac.
@@ -78,15 +78,15 @@ These are load-bearing. Some fail at the loader, some fail silently in a UI.
 ## Changing things safely
 
 - **A tool** — add it in `lib/tools/index.js` with an argument and result schema. The count is pinned in five places, so the gate fails until all agree: `test/host.test.js` and `scripts/verify-mount.mjs` (both `21`), the `description` of `locale/en.json` and `locale/zh.json`, and the README's tool list. `verify-mount.mjs` also dispatches `ios_discover_project` through the real registry and validates its JSON — keep any new tool that shells out to Apple out of its default dispatch, because the gate runs on every change and loading must not start the simulator stack.
-- **A settings field** — both field tables, then every place the count is pinned: `test/settings.test.js` ("17 fields in 5 groups"), `test/client-render.test.js` (field count and registration order), `scripts/verify-mount.mjs` (volatile count), and the README settings table. The gate fails on drift.
+- **A settings field** — both field tables, then every place the count is pinned: `test/settings.test.js` ("17 fields in 5 groups"), `test/client-render.test.js` (field count and slot registration), `scripts/verify-mount.mjs` (volatile count), and the README settings table. The gate fails on drift.
 - **A provider** — keep the ported behaviour; the parsers are covered by `test/providers.test.js`. Anything that needs a Mac belongs in `scripts/smoke.mjs`, not in `test/`.
 - **The window app** — Xcode 26 replaced `Simulator.app` with Device Hub (`com.apple.dt.Devices`, under `Contents/Applications`), so `open -a Simulator` alone is dead on a current Xcode. `lib/providers/sim.js` is the only place that resolves it, opening the window is best-effort there (its failure is returned as `openWarning`, never thrown out of `boot`), and `ios_show_simulator` is the only tool for which opening the window *is* the operation.
-- **The settings page** — `test/client-render.test.js` renders it with real React and `react-dom/server` in four host scenarios (macOS, Linux, Windows, undetectable), drives the real form model into the dirty and invalid states the action bar reacts to, and asserts every dictionary key resolves.
+- **The configuration page** — `test/client-render.test.js` renders the form with real React and `react-dom/server` in four host scenarios (macOS, Linux, Windows, undetectable), pins the `plugins.bundle.config` slot and key, covers a host that does not serve the namespace (which must leave no slot entry), drives the real form model into the dirty and invalid states the action bar reacts to, and asserts every dictionary key resolves.
 - **Testing the plugin by hand** — install this directory into a scratch profile (`dsh plugin --profile <scratch> add /absolute/path/to/dsh-ios-simulator-helper`), or through the DSH Desktop plugin manager. Never leave a scratch profile in the repository.
 
 ## Code style
 
-- English everywhere: code, comments, JSDoc, commit messages, `README.md`, and this file. Two translations are deliberate: the settings page's UI strings (`en`/`zh` dictionaries inside the client half) and `README.zh-CN.md`.
+- English everywhere: code, comments, JSDoc, commit messages, `README.md`, and this file. Two translations are deliberate: the configuration page's UI strings (`en`/`zh` dictionaries inside the client half) and `README.zh-CN.md`.
 - `README.md` and `README.zh-CN.md` are structural mirrors — same headings in the same order, same tables, same counts. A change to one is a change to the other. The language switch names the current edition as plain text and links only the other one; a self-link is noise on a page that already is that language.
 - Link repository files relatively in both READMEs — `LICENSE`, `AGENTS.md`, the other edition. npm resolves a relative README target against `repository.url` to `<repo>/blob/HEAD/<path>` (checked against the rendered package page, where `[简体中文](./Readme_zh-CN.md)` becomes `github.com/tj/commander.js/blob/HEAD/Readme_zh-CN.md`), so the same link works on GitHub, on npm and in a clone. Badges, screenshots and the `releases/…` / `issues` URLs stay absolute: those are not file paths, and a relative one is rewritten into a `blob` URL that does not exist.
 - The READMEs are the **user document**: what the plugin is, how to install and configure it, what it does, what it does not. Development, verification, release and repository-shape conventions belong in this file instead, so keep them out of the READMEs — and do not restate here what a reader can work out unaided (how to clone and install from source, what an obviously named file contains).
@@ -130,7 +130,7 @@ of shipping.
 ## Testing
 
 - `node:test` via `pnpm test`; no test framework, no mocking library.
-- The tests are a contract, not a smoke screen: they pin the manifest and patch shape, the two field tables, the settings projection, the ported parsers, and the rendered page.
+- The tests are a contract, not a smoke screen: they pin the manifest and patch shape, the two field tables, the settings projection, the ported parsers, and the rendered configuration form.
 - Render tests use real React and `react-dom/server`; only `@deepseek-ai/dsh-client-ui-primitives` is doubled, because it is a browser bundler input (CSS modules, `simple-icons`, `zustand/vanilla`) that plain Node cannot import.
 - Anything requiring Xcode, `simctl` or `idb` is a `scripts/smoke.mjs` concern and must never become a `pnpm test` requirement.
 - The load is inert: `test/lazy-load.test.js` patches `child_process` before importing the host half, then asserts that importing and mounting it start no subprocess while still registering all 21 tools, the skill, the command and the three routes.
@@ -141,11 +141,11 @@ Four layers, and what each one actually proves:
 | Layer | Command | Proves |
 |---|---|---|
 | Unit / parsers | `pnpm test` | bundle loading contract and static-module limits, manifest and patch contract, settings projection (volatile reads, env fallbacks, out-of-range fallbacks, boolean spellings), and the ported parsers |
-| Settings-page render | `pnpm test` (`client-render.test.js`) | the whole page rendered with real React in four host scenarios (macOS, Linux, Windows, undetectable), every dictionary key resolving, and the "only supports macOS" notice shown exactly on non-macOS |
-| Consistency gate | `scripts/check-bundle.mjs` | bundle id = package name, namespace = patch row id, the two field tables agreeing key by key, the three routes on both sides, the macOS verdict and notice keys still in place, and the bundle still a classic script |
+| Configuration-page render | `pnpm test` (`client-render.test.js`) | the whole form rendered with real React in four host scenarios (macOS, Linux, Windows, undetectable), the `plugins.bundle.config` slot and key pinned, no slot entry when the namespace is not served, every dictionary key resolving, and the "only supports macOS" notice shown exactly on non-macOS |
+| Consistency gate | `scripts/check-bundle.mjs` | bundle id = package name, namespace = patch row id, the `plugins.bundle.config` key and `PACKAGE_NAME` = package name with no `settings.section` registration, the two field tables agreeing key by key, the three routes on both sides, the macOS verdict and notice keys still in place, and the bundle still a classic script |
 | Real host mount | `scripts/verify-mount.mjs` | real Cordis `Context` + real `ToolRuntime`: 21 tools registered, mounting asserted to start no subprocess, `ios_discover_project` dispatched through the registry and schema-validated, malformed arguments and unknown tool names refused, 17 fields volatile, everything unregistered after dispose, and the whole run kept off Apple's tooling (`--with-simulator` adds `ios_preflight` and `ios_list_simulators`) |
 
-`pnpm run smoke` is the read-only half of that: Xcode discovery, actual `simctl` calls, `ios_discover_project`, the settings-page inventory route and `ios_ui_status`. The write path — scaffold a project, compile it, resolve the built product's bundle id, then install / launch / screenshot / logs / terminate / shutdown — is `pnpm run smoke:simulator`.
+`pnpm run smoke` is the read-only half of that: Xcode discovery, actual `simctl` calls, `ios_discover_project`, the configuration page's inventory route and `ios_ui_status`. The write path — scaffold a project, compile it, resolve the built product's bundle id, then install / launch / screenshot / logs / terminate / shutdown — is `pnpm run smoke:simulator`.
 
 ## Commit conventions
 
@@ -201,7 +201,7 @@ The repository is shaped for the [awesome-dsh-plugin](https://github.com/awesome
 
 - `dsh.bundle.patch` → `./cordis.patch.yml`, with `cordis.patch.yml` next to `package.json` and exactly one `insert` row whose id is the settings namespace.
 - Official `@deepseek-ai/*` packages declared as `peerDependencies`, never `dependencies`.
-- `screenshots.json` declaring 1–8 screenshots by relative, `..`-free image paths that all exist (the four live in `assets/`, which is a convention rather than an assertion). Refreshing them is a four-part move, not a file swap: recapture the live page in DSH Desktop at the same four scroll positions (Chinese locale; no save bar, which only appears once an edit is staged), then update `assets/`, the order in `screenshots.json` and the four captions in **both** READMEs together.
+- `screenshots.json` declaring 1–8 screenshots by relative, `..`-free image paths that all exist (the four live in `assets/`, which is a convention rather than an assertion). Refreshing them is a four-part move, not a file swap: recapture the form on the plugin's detail page in DSH harness 0.2.1-rc.2 at the same four scroll positions (Chinese locale; no save bar, which only appears once an edit is staged; keep the component row's local code source below the fold), then update `assets/`, the order in `screenshots.json` and the four captions in **both** READMEs together. A 1598 × 1588 viewport reproduces the existing frames.
 - `repository`, `homepage` and `bugs` pointing at the listed repository.
 
 The submission is a single YAML file in that repository (`data/plugins/zhz8888__dsh-ios-simulator-helper.yml`, with `url`/`name` pointing here, a `description.en` that states only what the code does, and category `dev`); nothing here ships it, and the list's CI rejects repositories younger than 24 hours.
